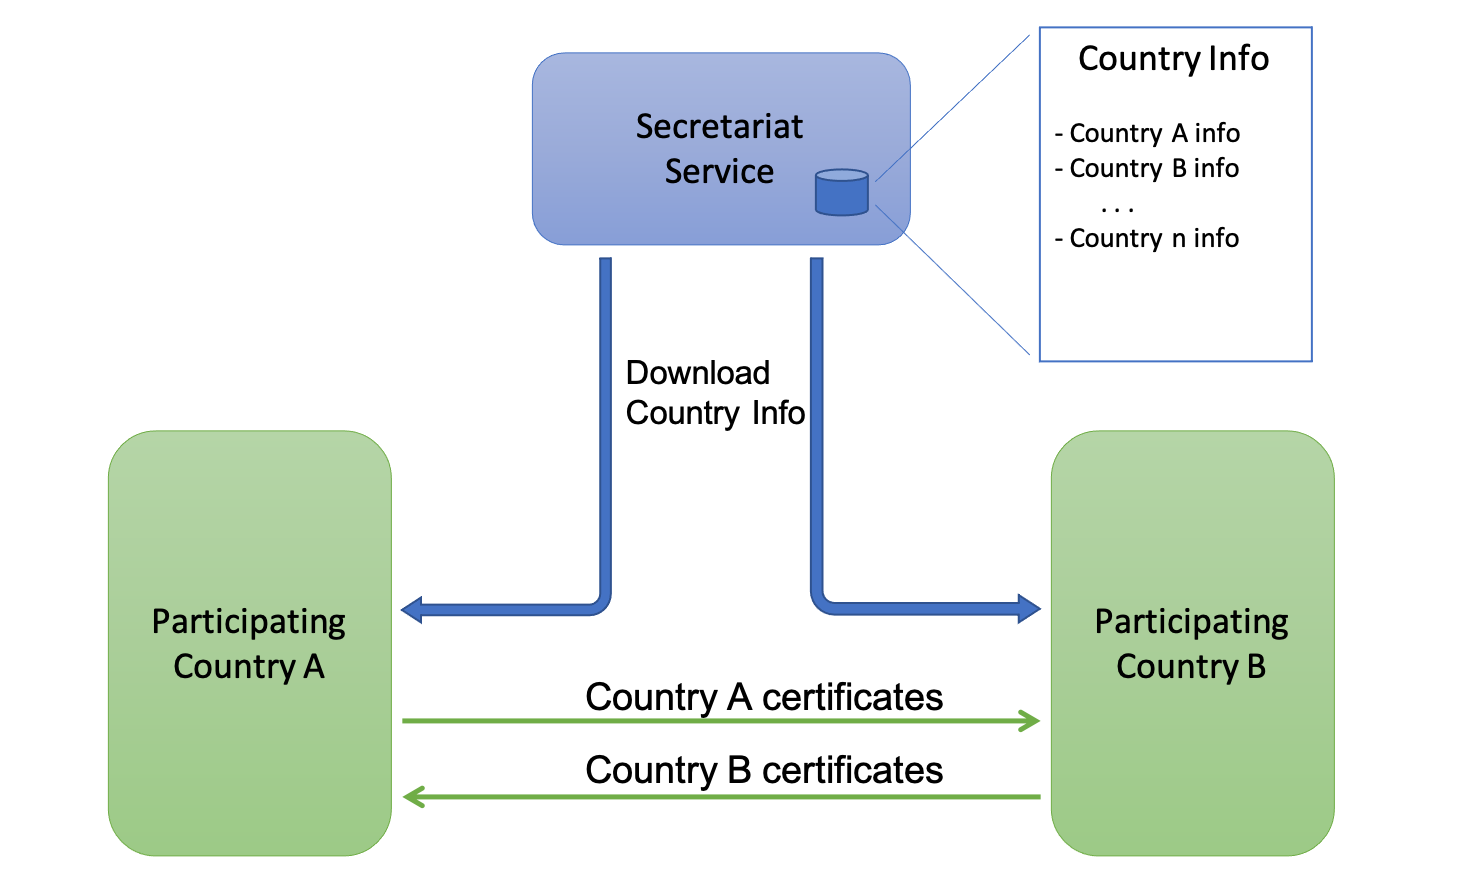
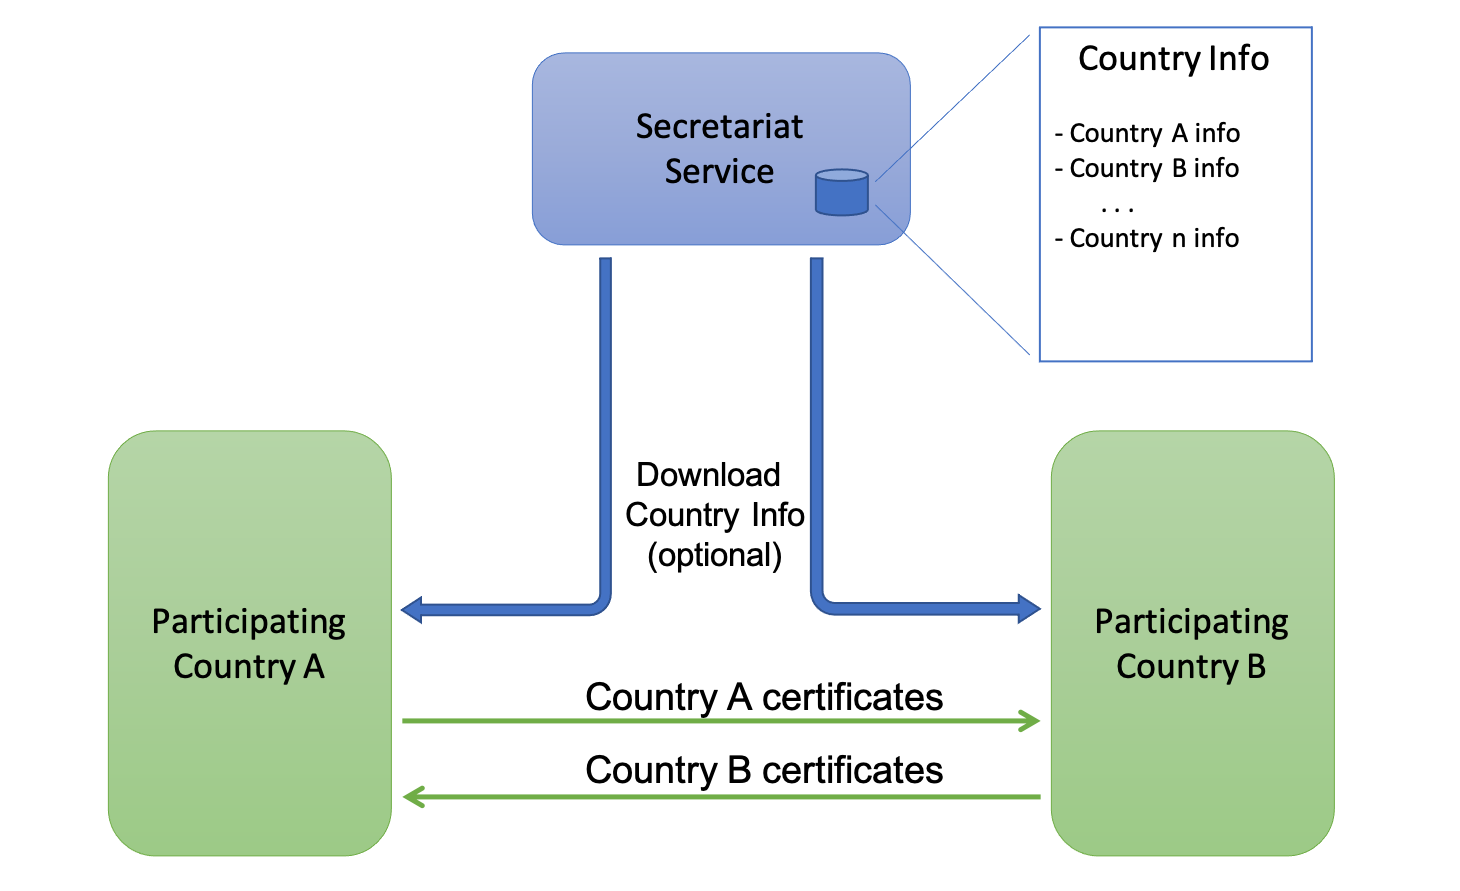
Extending changes
Working through necessary changes to remove self signed certificates as an option for DSC, taking into considerations suggested edits from Dirk and Fredrik.

Changed region(s): [[0.4315, 0.5152, 0.5548, 0.6364], [0.4315, 0.3939, 0.5548, 0.4848]]

diff --git a/hcert_trust_exchange.md b/hcert_trust_exchange.md
@@ -38,11 +38,12 @@ It is assumed that the latter relation is entirely up to the validating Particip
 
 ### Certificate trust model
 
-HCERTs are verified using a Document Signer Certificate (DSC) that holds the public key of the document signer that issued the HCERT. A DSC MAY be self issued or signed by a Certificate Signing Certificate Authority (CSCA).
+HCERTs are verified using a Document Signer Certificate (DSC) that holds the public key of the document signer that issued the HCERT. A DSC is allways issued by a Certificate Signing Certificate Authority (CSCA).
 
-Each Participating Country is REQUIRED to provide a list of valid Document Signing Certificates (DSCs), and keep these lists current. This list is called the DSC list. All public keys within certificates present on the DSC list is considered valid for validating signatures of HCERTs from that country, regardless of other information in the certificate or whether the DSC is self signed or signed by a CSCA.
+Each Participating Country MUST provide a list of one or more CSCA certificates used to sign certificates on the country DSC list. Participating Countries and their verifiers MAY use the CSCA certificates as an instrument to validate certificates on the DSC list.
 
-Each Participating Country MAY provide a list of one or more CSCA certificates used to sign certificates on the country DSC list. Participating countries and their verifiers MAY use the CSCA certificates as an instrument to validate certificates on the DSC list but MUST NOT require a DSC to be signed by a CSCA.
+Each Participating Country is MUST provide a list of valid Document Signing Certificates (DSCs), and keep this lists current. This list is called the DSC list. All public keys within certificates present on the DSC list is considered valid for validating signatures of HCERTs from that country.
+
 
 ### Certificate profiles
 
@@ -52,19 +53,32 @@ Requirements on certificate content of DSC and CSCA certificates are defined in 
 
 ### Basic concept
 
-DSC and CSCA certificates are exchanged between each Participating Country based on information provided by the Secretariat.
-
-All trust information is provided openly and freely without restrictions. Each Participating Country downloading certificates MUST have the means to validate and authenticate downloaded certificates, but the Participating Country providing the certificates MUST NOT require authentication of the downloading client.
-
-<img width="800" src="img/fig1.png">
-
 The Secretariat maintains a list of Participating Countries and the following information for each country:
 
 - URLs to downloadable certificate sets (DSC and CSCA certificates)
-- Information about how to authenticate certificates from each Country
+- Information about how to authenticate downloaded certificates
+- A current aggregated list of CSCA certificates
+- A current aggregated list of verified DSC certificates
 
 This information can be downloaded and authenticated by other Participating Countries using the Secretariat's master URL and master key. This master key and master URL is the only information that is required to bootstrap trust in all HCERTs issued by all Participating Countries.
 
+All trust information is provided openly and freely without restrictions. Each Participating Country as well as the Secretariat service MUST provide the means to authenticate downloadable data, but MUST NOT require authentication or authorization of the downloading client.
+
+Participating Countries can choose between two different methods to obtain trusted certificates used to verify signature on HCERTs from another country as described below.
+
+#### Downloading aggregated certificates from Secretariat service
+
+<img width="700" src="img/fig2.png">
+
+In this option the Participating Country simply downloades the compiled list of DSC and optionally CSCA certificates aggregated and validated by the Secretariat. This is considered to be the default method to obtain trusted DSC for each Participating Country. As the aggregated DSC list is kept current and validated by the Secretariat service, Participating Coutries MAY choose to just download the DSC list and to consider all certificates on this list as trusted without doing explicit certificate validation against the signing CSCA.
+
+#### Bilateral download
+
+<img width="700" src="img/fig1.png">
+
+In this option the Participating Country decides to obtain from the Secretairat service the URL and authentication data used to download and authenticate certificates from other Participating Countries. As an alternative to this initial step the Participating countries MAY obtain this initial country info directly from the other Country which MAY be an option used to verify HCERT data from a country outside the list of countries covered by the Secretariat service.
+
+The Participating Countries the uses this country info data to continously aggregate trusted certificates.
 
 ### Data formats
 
@@ -93,8 +107,10 @@ The Secretariat offers information about Participating Countries via the master 
 - URL for downloading a signed set of JWKs containing CSCA certificates (Optional)
 - TLS Certificate used on the origin server of above.
 - Certificate for verifying signed JWKs (Optional)
+- Current valid list of aggregated CSCA Certificates
+- Current valid list of aggregated and validated DSC
 
-The manner in which the Secretariat obtains this information from each Participating Country is outside the scope of this specification.
+The manner in which the Secretariat bootstrap initial URL:s and certificates used to download and authenticate information from each Participating Country is outside the scope of this specification.
 
 
 ## Security considerations
@@ -108,7 +124,10 @@ In cases where data is obtained using a signed set of JWKs, verifiers MAY ignore
 
 The infrastructure specified in this specification is expected to be a temporary solution and its design is focused on allowing Participant Countries to use the system with a minimum amount of efforts and development using currently available standard tools.
 
-One important design goal is therefore to adopt a design that allows this model to be migrated into almost any future model for trust exchange. By gradually moving from self-signed certificates towards a more layered model where each DCA is signed by a national CSCA, it is possible to merge this infrastructure with existing models for trust exchange such as a fully integrated ICAO model, integration with EU trusted list or other relevant models.
+One important design goal is therefore to adopt a design that allows this model to be migrated into almost any future model for trust exchange such as
+
+- A fully integrated key exchange gateway where Participating Countries actively uploads trust information to the gateway using suitable API:s for trust management.
+- Integration with existing trust infrastructures such as the ICAO trust infrastructure for passport validation.
 
 
  ## Normative Standard Bodies
